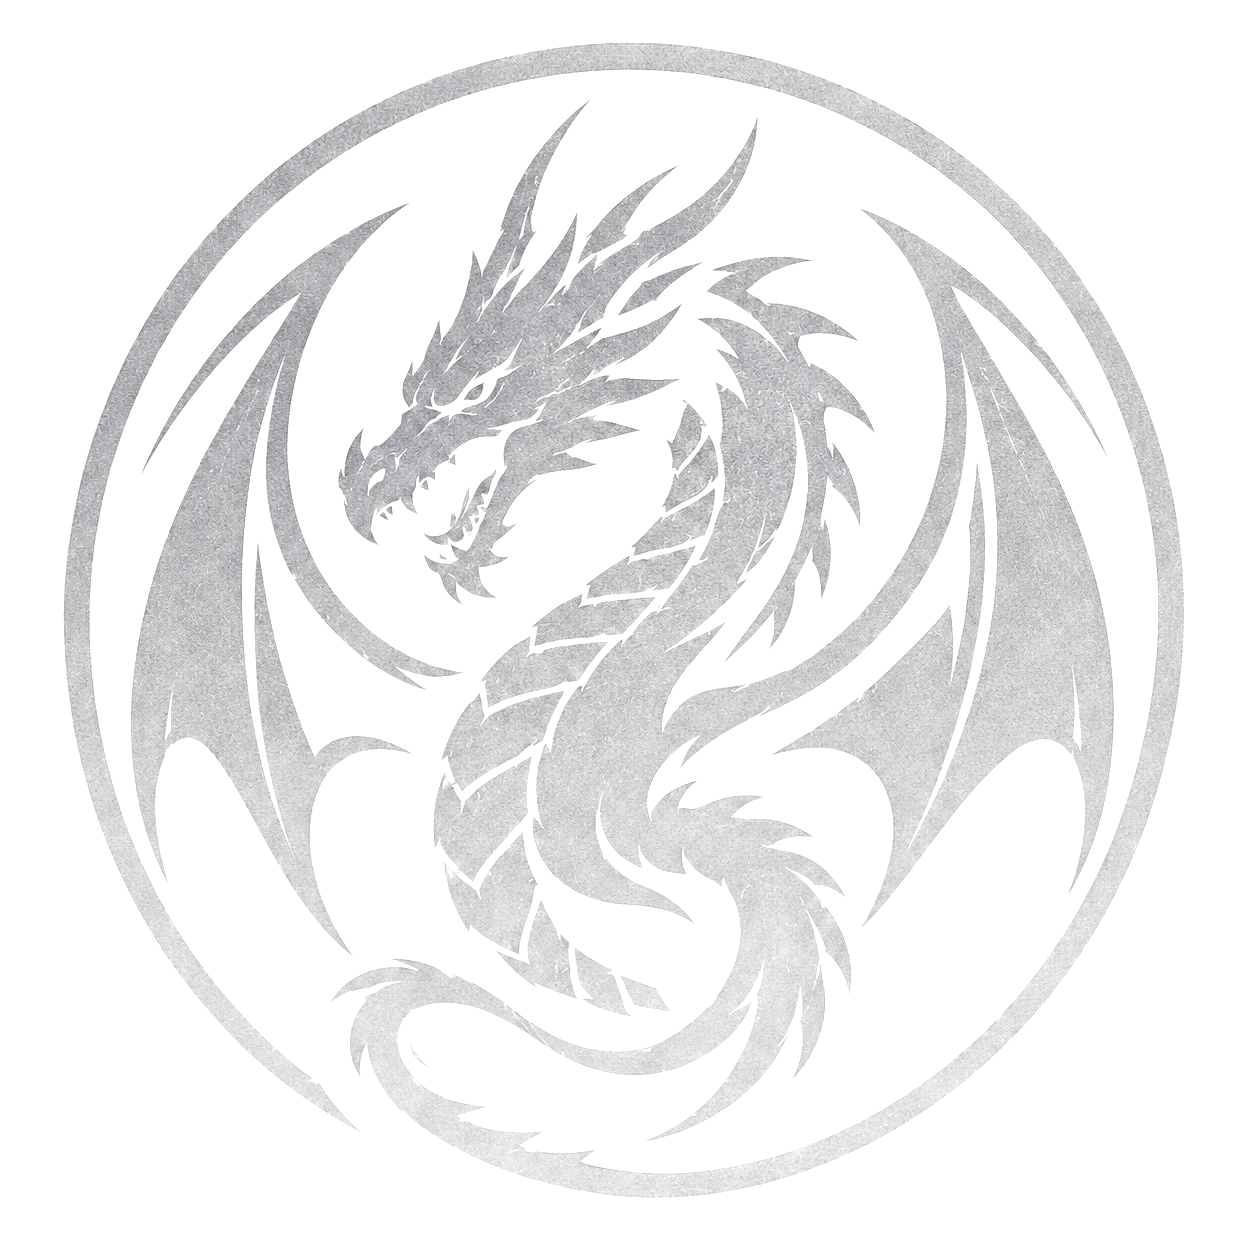
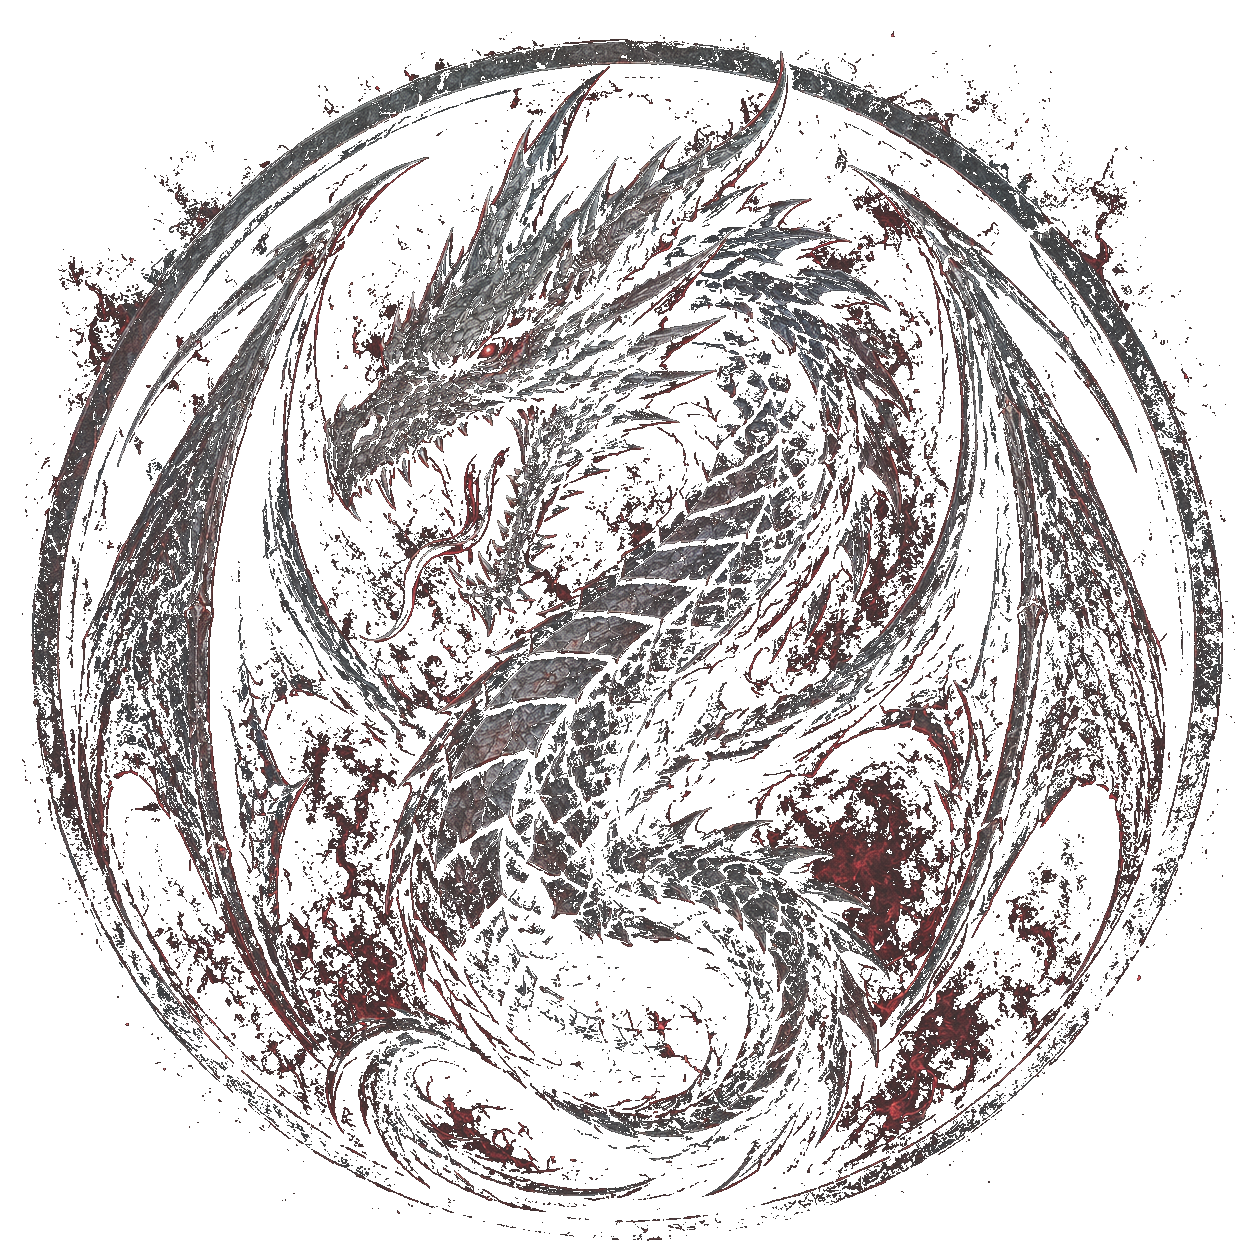
v4.7.9

diff --git a/kali.py b/kali.py
@@ -88,7 +88,7 @@ except Exception as _ve:  # noqa
 
 APP_ID  = "org.thepriest.kali"
 APP_NAME = "Basilisk"
-VERSION = "4.7.8"
+VERSION = "4.7.9"
 
 # ── Tool-chain efficiency knobs ──
 # How many model round-trips a single user turn may chain through.  With

diff --git a/README.md b/README.md
@@ -25,7 +25,7 @@ keywords: ai security operator, kali linux ai, ai pentest tool, offensive securi
 
 <br>
 
-![version](https://img.shields.io/badge/version-4.7.8-c4cad4?style=for-the-badge&labelColor=0d0f12)
+![version](https://img.shields.io/badge/version-4.7.9-c4cad4?style=for-the-badge&labelColor=0d0f12)
 ![license](https://img.shields.io/badge/license-MIT-2ee65f?style=for-the-badge&labelColor=0d0f12)
 ![platform](https://img.shields.io/badge/Linux-X11%20%7C%20Wayland-9aa4b2?style=for-the-badge&logo=linux&logoColor=white&labelColor=0d0f12)
 ![python](https://img.shields.io/badge/python-3.10+-3776ab?style=for-the-badge&logo=python&logoColor=white&labelColor=0d0f12)